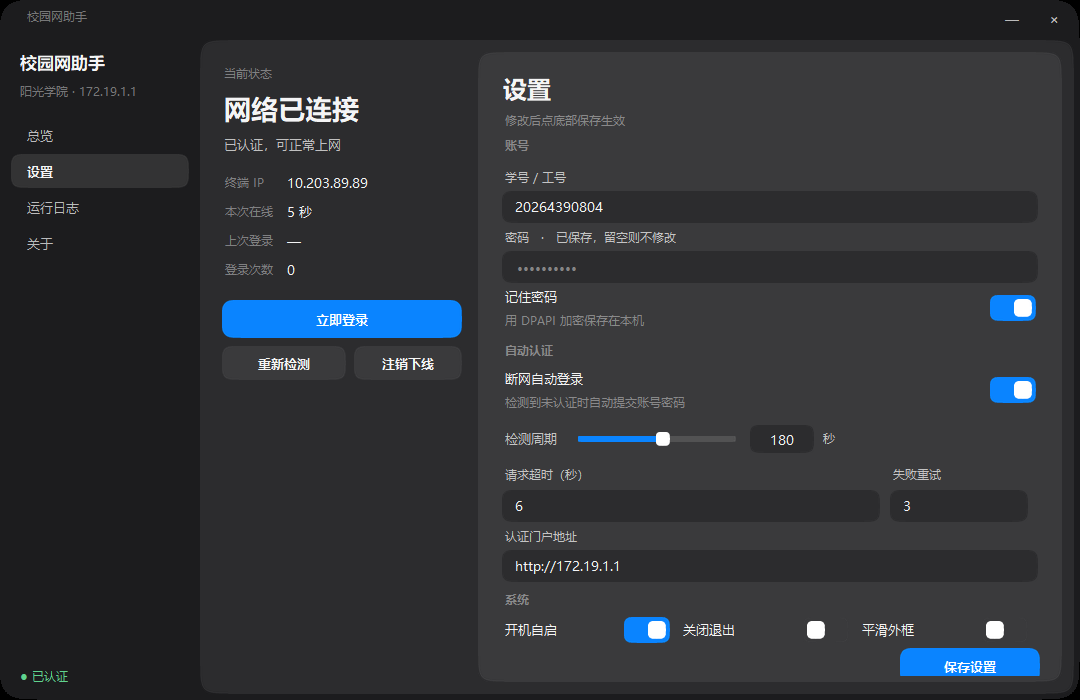
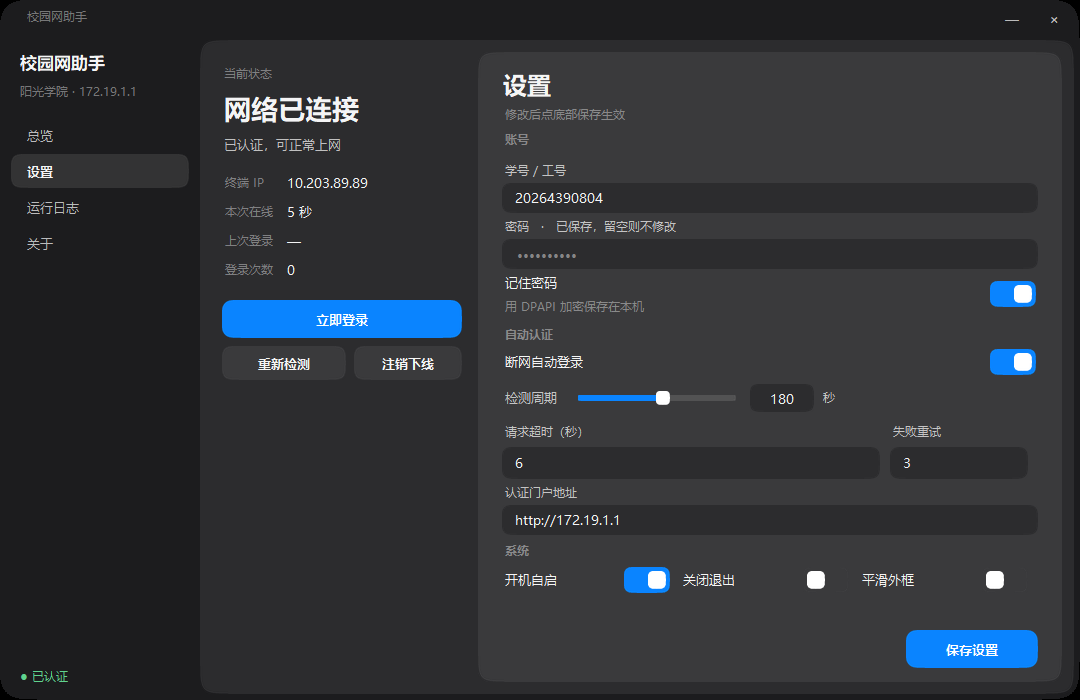
feat: 保存按钮悬浮右下角；切换页面前提醒未保存更改
- 设置页底部留 50px 悬浮区，保存按钮固定在右下角，内容滚动不会压到它
- 离开设置页时比对快照，有改动弹三选一对话框（保存/不保存/取消）
- 自定义无边框对话框，和应用同风格

diff --git a/tk_app.py b/tk_app.py
@@ -603,6 +603,77 @@ class IconButton(tk.Canvas):
 
 
 # ---------------------------------------------------------------- 主窗口
+class AskDialog(tk.Toplevel):
+    """无边框三选一对话框，返回 save / discard / cancel。"""
+
+    def __init__(self, master, title: str, message: str,
+                 save_text="保存", discard_text="不保存", cancel_text="取消"):
+        super().__init__(master)
+        self.result = "cancel"
+        self.withdraw()
+        self.overrideredirect(True)
+        self.configure(bg=MID)
+        self.attributes("-topmost", True)
+        self._master = master
+
+        wrap = tk.Frame(self, bg=MID, padx=24, pady=20)
+        wrap.pack(fill="both", expand=True)
+        tk.Label(wrap, text=title, bg=MID, fg=T1, font=(FONT, 13, "bold"),
+                 anchor="w").pack(fill="x")
+        tk.Label(wrap, text=message, bg=MID, fg=T2, font=F_SMALL, anchor="w",
+                 justify="left", wraplength=320).pack(fill="x", pady=(6, 16))
+
+        row = tk.Frame(wrap, bg=MID)
+        row.pack(fill="x")
+        Button(row, cancel_text, lambda: self._done("cancel"), bg=MID, fill=SURFACE,
+               width=76, height=32, font=F_SMALL).pack(side="right", padx=(8, 0))
+        Button(row, discard_text, lambda: self._done("discard"), bg=MID, fill=SURFACE,
+               width=84, height=32, font=F_SMALL).pack(side="right", padx=(8, 0))
+        Button(row, save_text, lambda: self._done("save"), bg=MID, fill=ACCENT,
+               accent=True, width=76, height=32, font=F_SMALL).pack(side="right")
+
+        self.update_idletasks()
+        w, h = max(360, self.winfo_reqwidth()), self.winfo_reqheight()
+        mx = master.winfo_rootx() + (master.winfo_width() - w) // 2
+        my = master.winfo_rooty() + (master.winfo_height() - h) // 2
+        self.geometry("%dx%d+%d+%d" % (w, h, mx, my))
+        self.deiconify()
+        self.lift()
+        self.grab_set()
+        self._round()
+
+    def _round(self):
+        try:
+            hwnd = ctypes.windll.user32.GetParent(self.winfo_id())
+            w, h = self.winfo_width(), self.winfo_height()
+            arr = (ctypes.c_long * 4)(0, 0, w, h)
+            rgn = ctypes.windll.gdi32.CreatePolygonRgn(
+                (ctypes.c_long * (len(squircle_points(0, 0, w, h, 18, steps=24)) * 2))(),
+                0, 2)
+            pts = squircle_points(0, 0, w, h, 18, steps=24)
+            flat = [int(v) for pt in pts for v in pt]
+            self._pts = (ctypes.c_long * len(flat))(*flat)
+            rgn = ctypes.windll.gdi32.CreatePolygonRgn(self._pts, len(pts), 2)
+            ctypes.windll.user32.SetWindowRgn(hwnd, rgn, True)
+        except Exception:                               # noqa: BLE001
+            pass
+
+    def _done(self, value):
+        self.result = value
+        try:
+            self.grab_release()
+        except Exception:                               # noqa: BLE001
+            pass
+        self.destroy()
+
+    def ask(self) -> str:
+        try:
+            self.wait_window(self)
+        except Exception:                               # noqa: BLE001
+            pass
+        return self.result
+
+
 class App(tk.Tk):
     def __init__(self, engine: Engine, start_hidden: bool = False):
         super().__init__()
@@ -1055,13 +1126,15 @@ class App(tk.Tk):
 
     # 设置
     def _view_settings(self, parent):
-        scroll = ScrollFrame(parent, bg=SURFACE)
+        view = tk.Frame(parent, bg=SURFACE)
+        scroll = ScrollFrame(view, bg=SURFACE)
+        scroll.pack(fill="both", expand=True, pady=(0, 50))
         if not hasattr(self, "_scrolls"):
             self._scrolls = []
         self._scrolls.append(scroll)
         outer = scroll.inner
         self._page_head(outer, "设置", "修改后点底部保存生效")
-        outer.winfo_children()[0].pack_configure(pady=(12, 2))
+        outer.winfo_children()[0].pack_configure(pady=(8, 0))
 
         body = tk.Frame(outer, bg=SURFACE)
         body.pack(fill="both", expand=True, padx=18, pady=(2, 0))
@@ -1073,11 +1146,11 @@ class App(tk.Tk):
         self.v_remember = self._make_switch(body, "记住密码", "用 DPAPI 加密保存在本机", compact=True)
 
         tk.Label(body, text="自动认证", bg=SURFACE, fg=T3_S, font=F_SMALL_B,
-                 anchor="w").pack(fill="x", pady=(6, 3))
-        self.v_auto = self._make_switch(body, "断网自动登录", "检测到未认证时自动提交账号密码")
+                 anchor="w").pack(fill="x", pady=(4, 2))
+        self.v_auto = self._make_switch(body, "断网自动登录", "")
 
         srow = tk.Frame(body, bg=SURFACE)
-        srow.pack(fill="x", pady=(10, 0))
+        srow.pack(fill="x", pady=(8, 0))
         tk.Label(srow, text="检测周期", bg=SURFACE, fg=T2_S, font=F_BODY,
                  width=8, anchor="w").pack(side="left")
         self.v_interval = Slider(srow, self._pending_interval, 5, 3600, 5,
@@ -1093,33 +1166,32 @@ class App(tk.Tk):
         tk.Label(srow, text="秒", bg=SURFACE, fg=T2_S, font=F_SMALL).pack(side="left", padx=(6, 0))
 
         rrow = tk.Frame(body, bg=SURFACE)
-        rrow.pack(fill="x", pady=(10, 0))
+        rrow.pack(fill="x", pady=(8, 0))
         self.v_timeout = self._field_inline(rrow, "请求超时（秒）", self.engine.cfg.get("timeout", 6))
         self.v_retry = self._field_inline(rrow, "失败重试", self.engine.cfg.get("retry", 3))
 
         self.v_base = self._field(body, "认证门户地址")
 
         tk.Label(body, text="系统", bg=SURFACE, fg=T3_S, font=F_SMALL_B,
-                 anchor="w").pack(fill="x", pady=(6, 3))
+                 anchor="w").pack(fill="x", pady=(4, 2))
         pair = tk.Frame(body, bg=SURFACE)
         pair.pack(fill="x")
         self.v_startup = self._make_switch(pair, "开机自启", "", side="left")
         self.v_autoclose = self._make_switch(pair, "关闭退出", "", side="left")
         self.v_round = self._make_switch(pair, "平滑外框", "", side="left")
 
-        bar = tk.Frame(outer, bg=SURFACE)
-        bar.pack(fill="x", padx=16, pady=(2, 2))
-        self.save_spinner = Spinner(bar, bg=SURFACE, size=18)
-        self.save_btn = Button(bar, "保存设置", self._save_settings, bg=SURFACE, fill=ACCENT,
-                               accent=True, width=140, height=36)
-        self.save_btn.pack(side="right")
+        # 悬浮保存按钮：固定右下角，滚动内容不会跑到它下面
+        self.save_btn = Button(view, "保存设置", self._save_settings, bg=SURFACE,
+                               fill=ACCENT, accent=True, width=132, height=38)
+        self.save_btn.place(relx=1.0, rely=1.0, x=-18, y=-8, anchor="se")
+        self.save_spinner = Spinner(view, bg=SURFACE, size=18)
 
-        return scroll
+        return view
 
     def _field(self, parent, label, *, secret=False):
         lbl = tk.Label(parent, text=label, bg=SURFACE, fg=T2_S, font=F_SMALL, anchor="w")
-        lbl.pack(fill="x", pady=(3, 2))
-        entry = RoundedEntry(parent, bg=SURFACE, fill=MID, height=32,
+        lbl.pack(fill="x", pady=(2, 1))
+        entry = RoundedEntry(parent, bg=SURFACE, fill=MID, height=30,
                              show="•" if secret else None)
         entry.pack(fill="x")
         entry._lbl = lbl
@@ -1171,11 +1243,57 @@ class App(tk.Tk):
                      anchor="w", justify="left").pack(side="left")
         return frame
 
+    def _mark_baseline(self):
+        self._baseline = self._snapshot()
+
+    # ------------------------------------------------------------ 未保存检查
+    def _snapshot(self):
+        try:
+            return (
+                self.v_user.get().strip(),
+                self.v_pass.get(),
+                self.v_remember.value,
+                self.v_auto.value,
+                int(self._pending_interval),
+                self.v_timeout.get().strip(),
+                self.v_retry.get().strip(),
+                self.v_base.get().strip(),
+                self.v_startup.value,
+                self.v_autoclose.value,
+                self.v_round.value,
+            )
+        except Exception:                               # noqa: BLE001
+            return None
+
+    def _is_dirty(self) -> bool:
+        if not hasattr(self, "v_user"):
+            return False
+        snap = self._snapshot()
+        return snap is not None and snap != self._baseline
+
+    def _confirm_leave_settings(self) -> bool:
+        """切走设置页且存在未保存改动时询问。"""
+        if not self._is_dirty():
+            return True
+        dlg = AskDialog(self, "有未保存的更改",
+                        "设置已经修改但还没保存，要现在保存吗？")
+        choice = dlg.ask()
+        if choice == "cancel":
+            return False
+        if choice == "save":
+            self._save_settings()
+        else:
+            self._sync_settings()
+        return True
+
     # ------------------------------------------------------------ 行为
     def _switch_manual(self, key):
         self._switch(key)
 
     def _switch(self, key):
+        if key != "settings" and getattr(self, "_current", None) == "settings":
+            if not self._confirm_leave_settings():
+                return
         self._current = key
         for name, frame in self._views.items():
             if name == key:
@@ -1255,7 +1373,7 @@ class App(tk.Tk):
 
         self._saving = True
         self.save_btn.set_enabled(False)
-        self.save_spinner.pack(side="right", padx=(0, 10))
+        self.save_spinner.place(relx=1.0, rely=1.0, x=-162, y=-35, anchor="se")
         self.save_spinner.start()
 
         self._save_patch, self._save_pw = patch, pw
@@ -1282,7 +1400,7 @@ class App(tk.Tk):
         self._saving = False
         try:
             self.save_spinner.stop()
-            self.save_spinner.pack_forget()
+            self.save_spinner.place_forget()
             self.save_btn.set_enabled(True)
         except Exception:                               # noqa: BLE001
             pass
@@ -1304,6 +1422,7 @@ class App(tk.Tk):
             self.v_pass._lbl.configure(text="密码   ·   尚未保存，填写后才能自动认证")
         self.v_user.set(cfg.get("user", ""))
         self.v_user.set_placeholder("请输入学号 / 工号")
+        self.after_idle(self._mark_baseline)
         self.v_base.set(cfg.get("base_url", ""))
         self.v_timeout.set(str(cfg.get("timeout", 6)))
         self.v_retry.set(str(cfg.get("retry", 3)))
